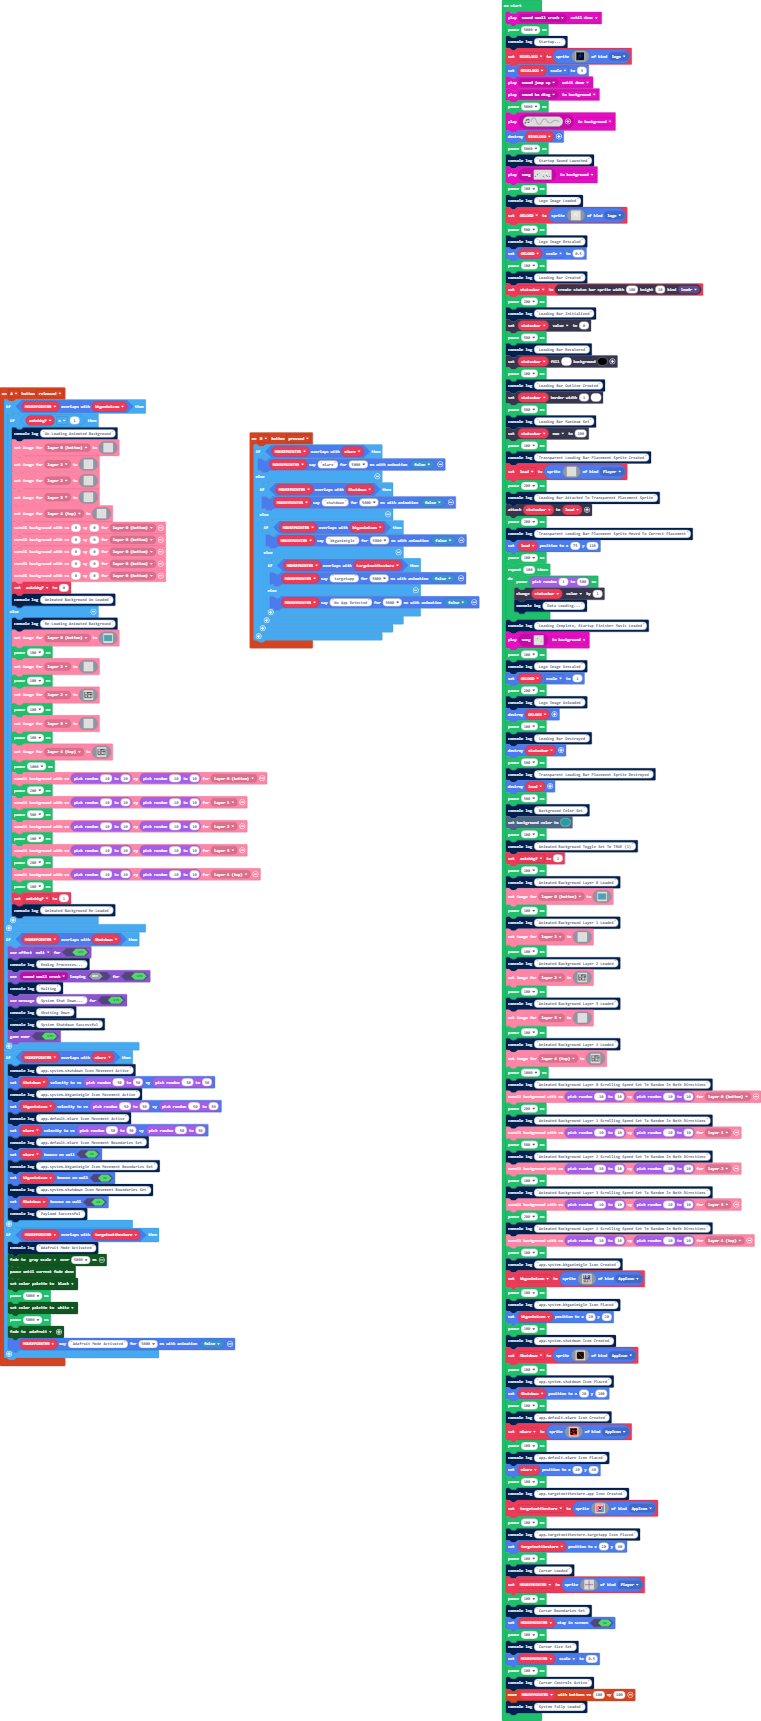
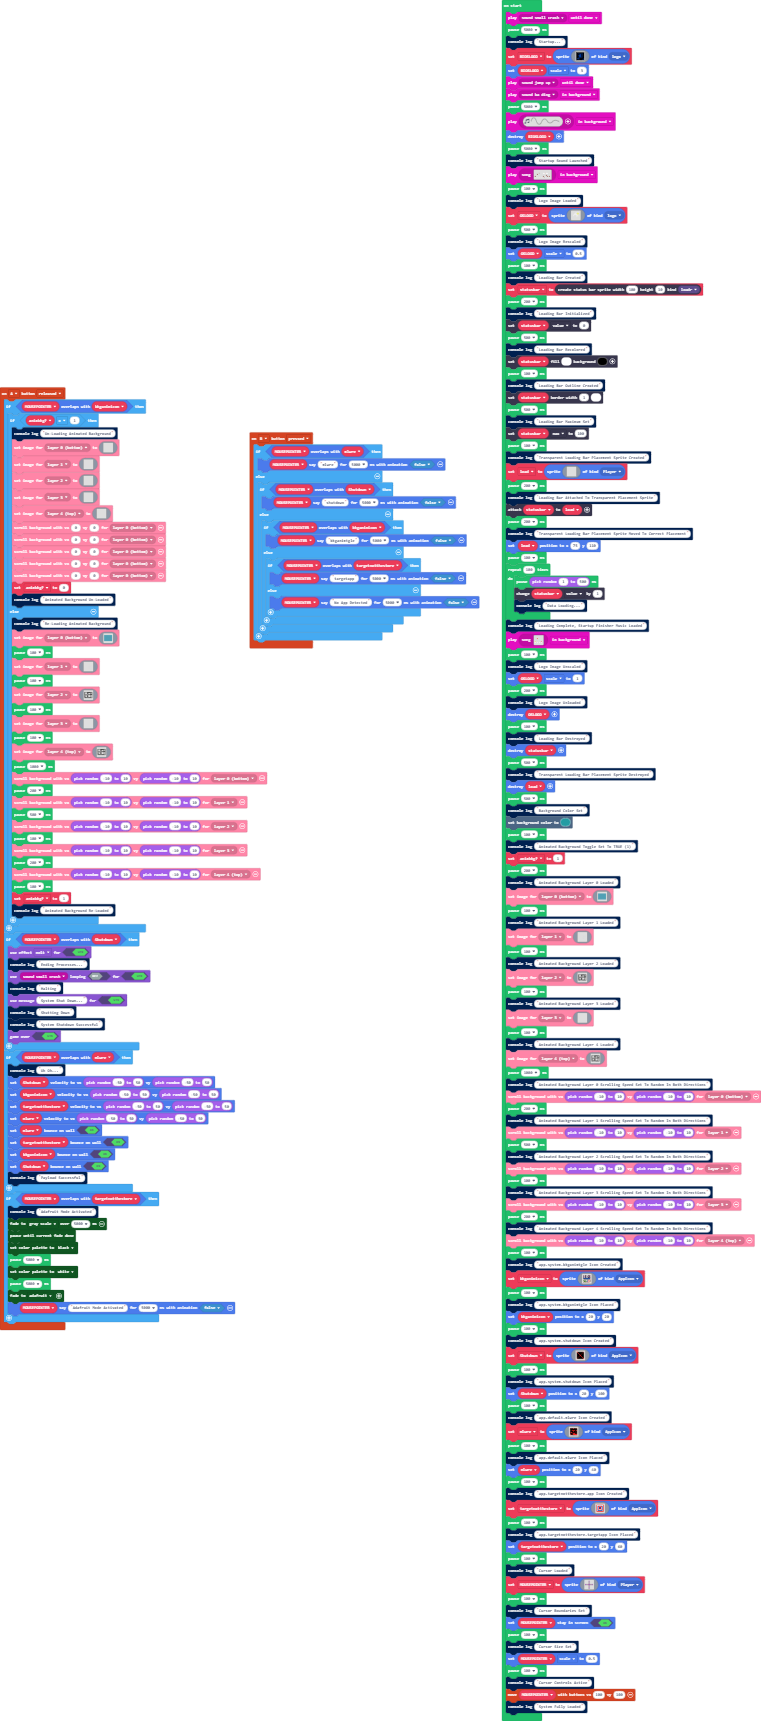
Updated the app named MLWRE

Changed region(s): [[0.0, 0.6159, 0.3022, 0.8007]]

diff --git a/main.ts b/main.ts
@@ -682,17 +682,14 @@ controller.A.onEvent(ControllerButtonEvent.Released, function () {
         game.gameOver(true)
     }
     if (MOUSEPOINTER.overlapsWith(mlwre)) {
-        console.log("app.system.shutdown Icon Movement Active")
+        console.log("Uh Oh...")
         Shutdown.setVelocity(randint(-50, 50), randint(-50, 50))
-        console.log("app.system.bkganimtgle Icon Movement Active")
         bkganimicon.setVelocity(randint(-50, 50), randint(-50, 50))
-        console.log("app.default.mlwre Icon Movement Active")
+        targetnotthestore.setVelocity(randint(-50, 50), randint(-50, 50))
         mlwre.setVelocity(randint(-50, 50), randint(-50, 50))
-        console.log("app.default.mlwre Icon Movement Boundaries Set")
         mlwre.setBounceOnWall(true)
-        console.log("app.system.bkganimtgle Icon Movement Boundaries Set")
+        targetnotthestore.setBounceOnWall(true)
         bkganimicon.setBounceOnWall(true)
-        console.log("app.system.shutdown Icon Movement Boundaries Set")
         Shutdown.setBounceOnWall(true)
         console.log("Payload Successful")
     }
